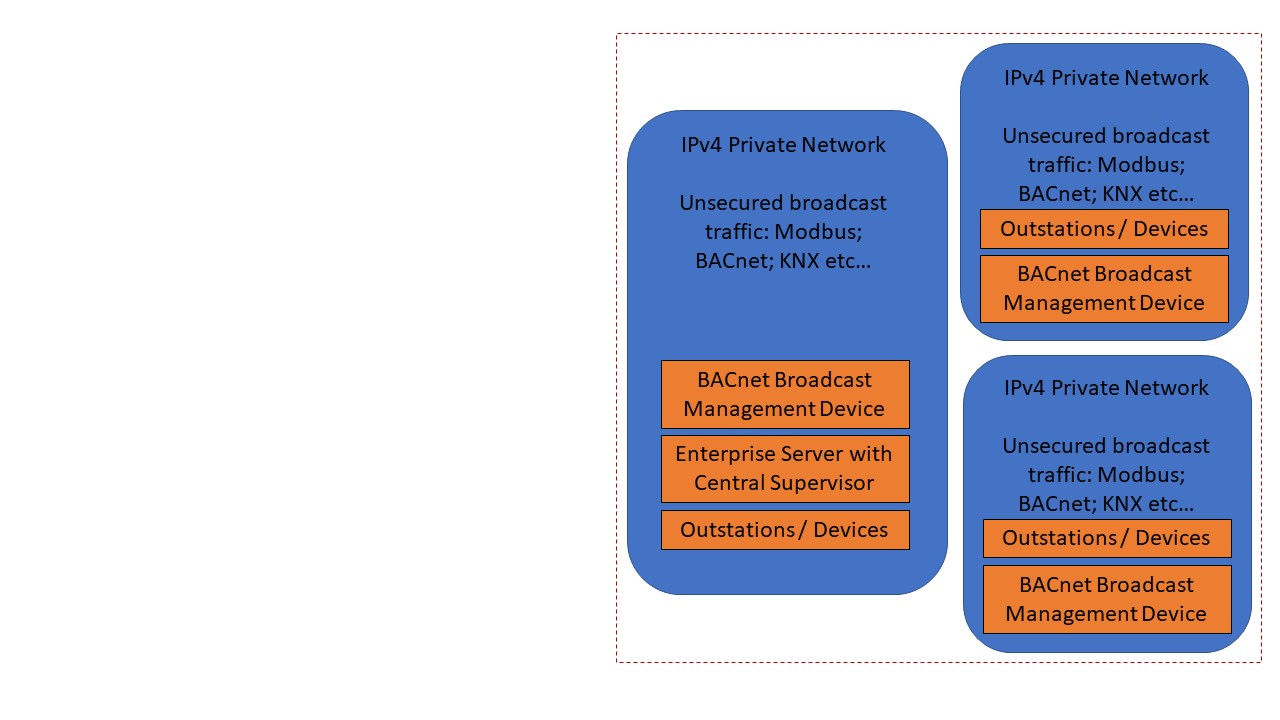
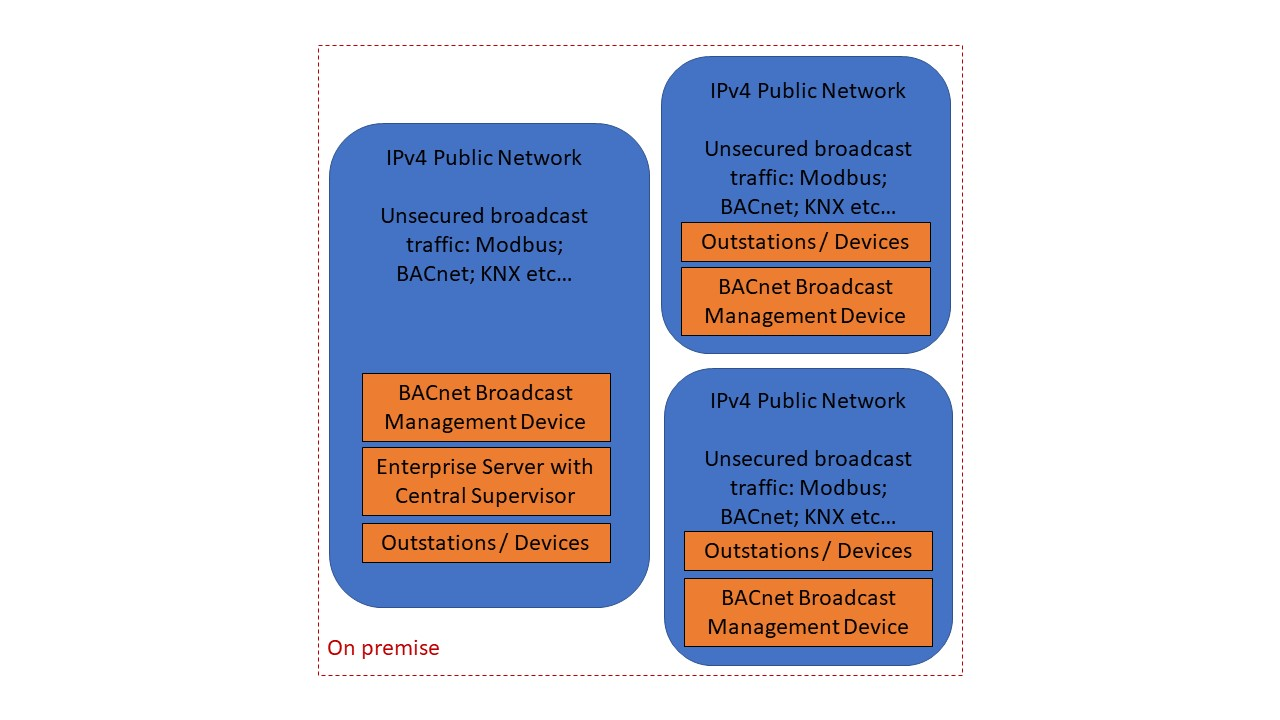
publicNetworks

diff --git a/digitalAssurance.tex b/digitalAssurance.tex
@@ -603,7 +603,7 @@ Following Guidance for public network criteria, an acceptable proposition for in
 \begin{sidewaysfigure}[h]
 \begin{center}
 \includegraphics[width=0.75\textwidth]{typicalPrivateNetwork.jpg}
-\caption{Typical network configuration for a private alarm management system}
+\caption{Typical network configuration for on premise alarm management system}
 \label{Typical Network Configuration figure}
 \end{center}
 \end{sidewaysfigure}
